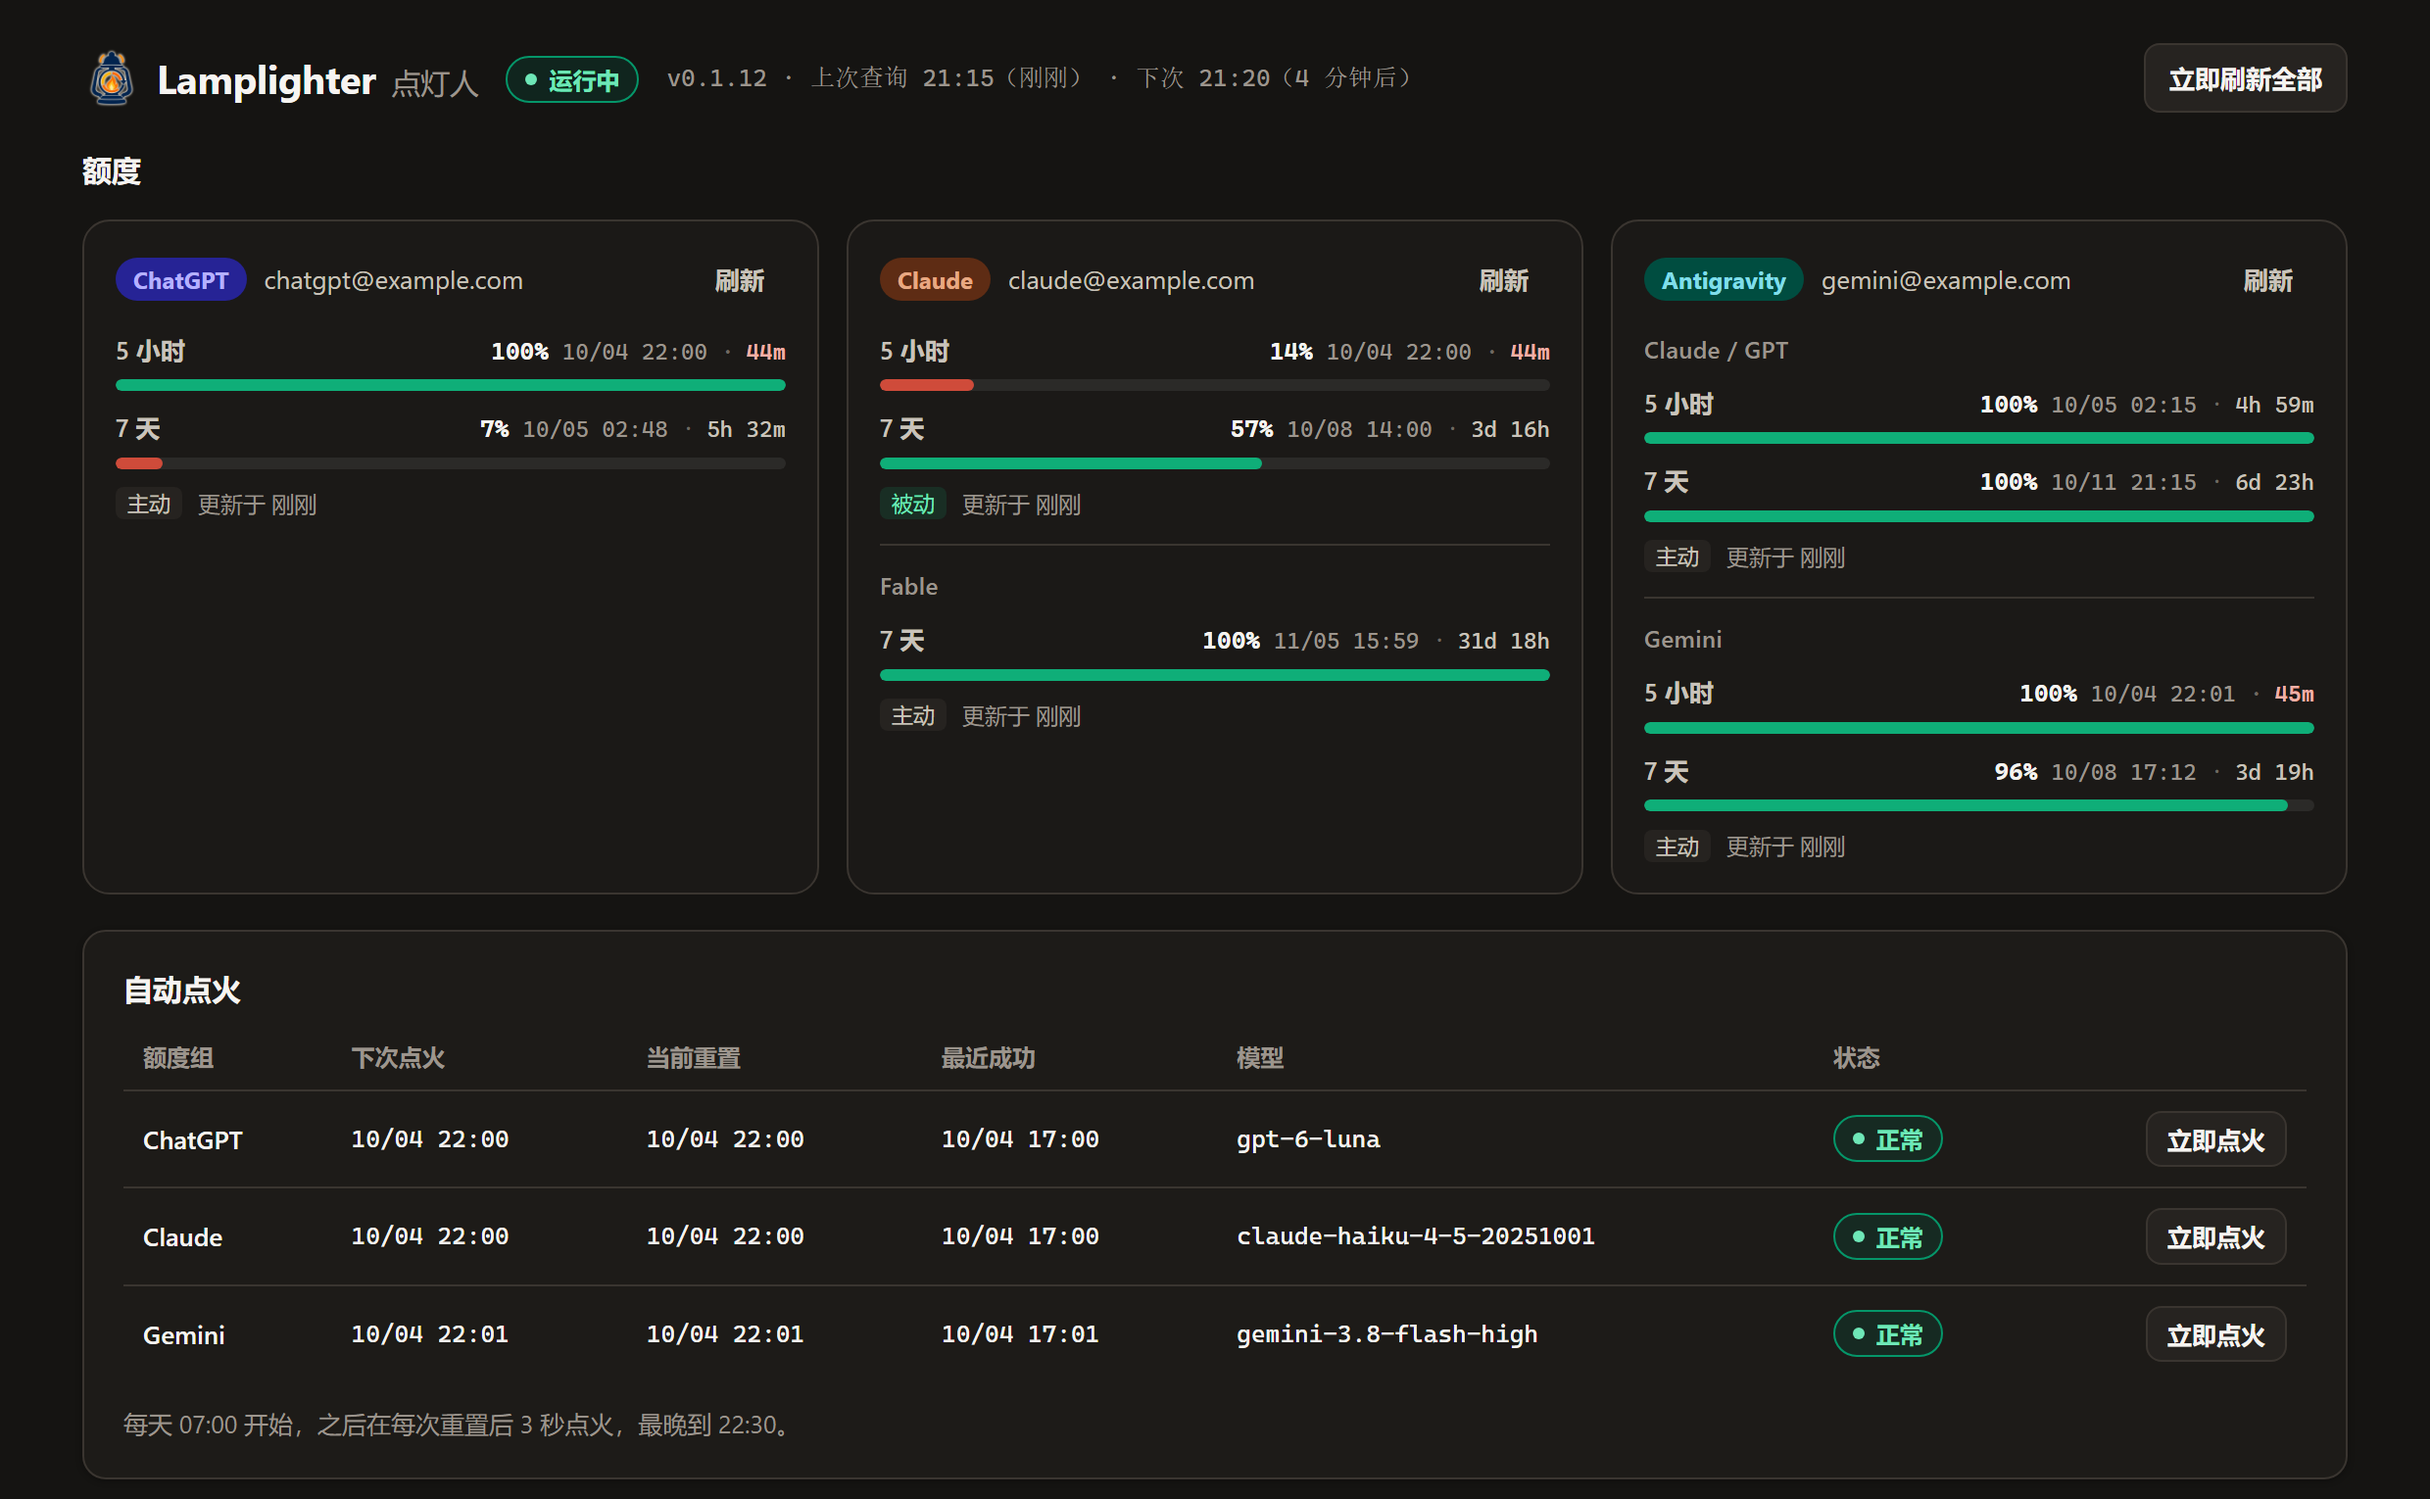
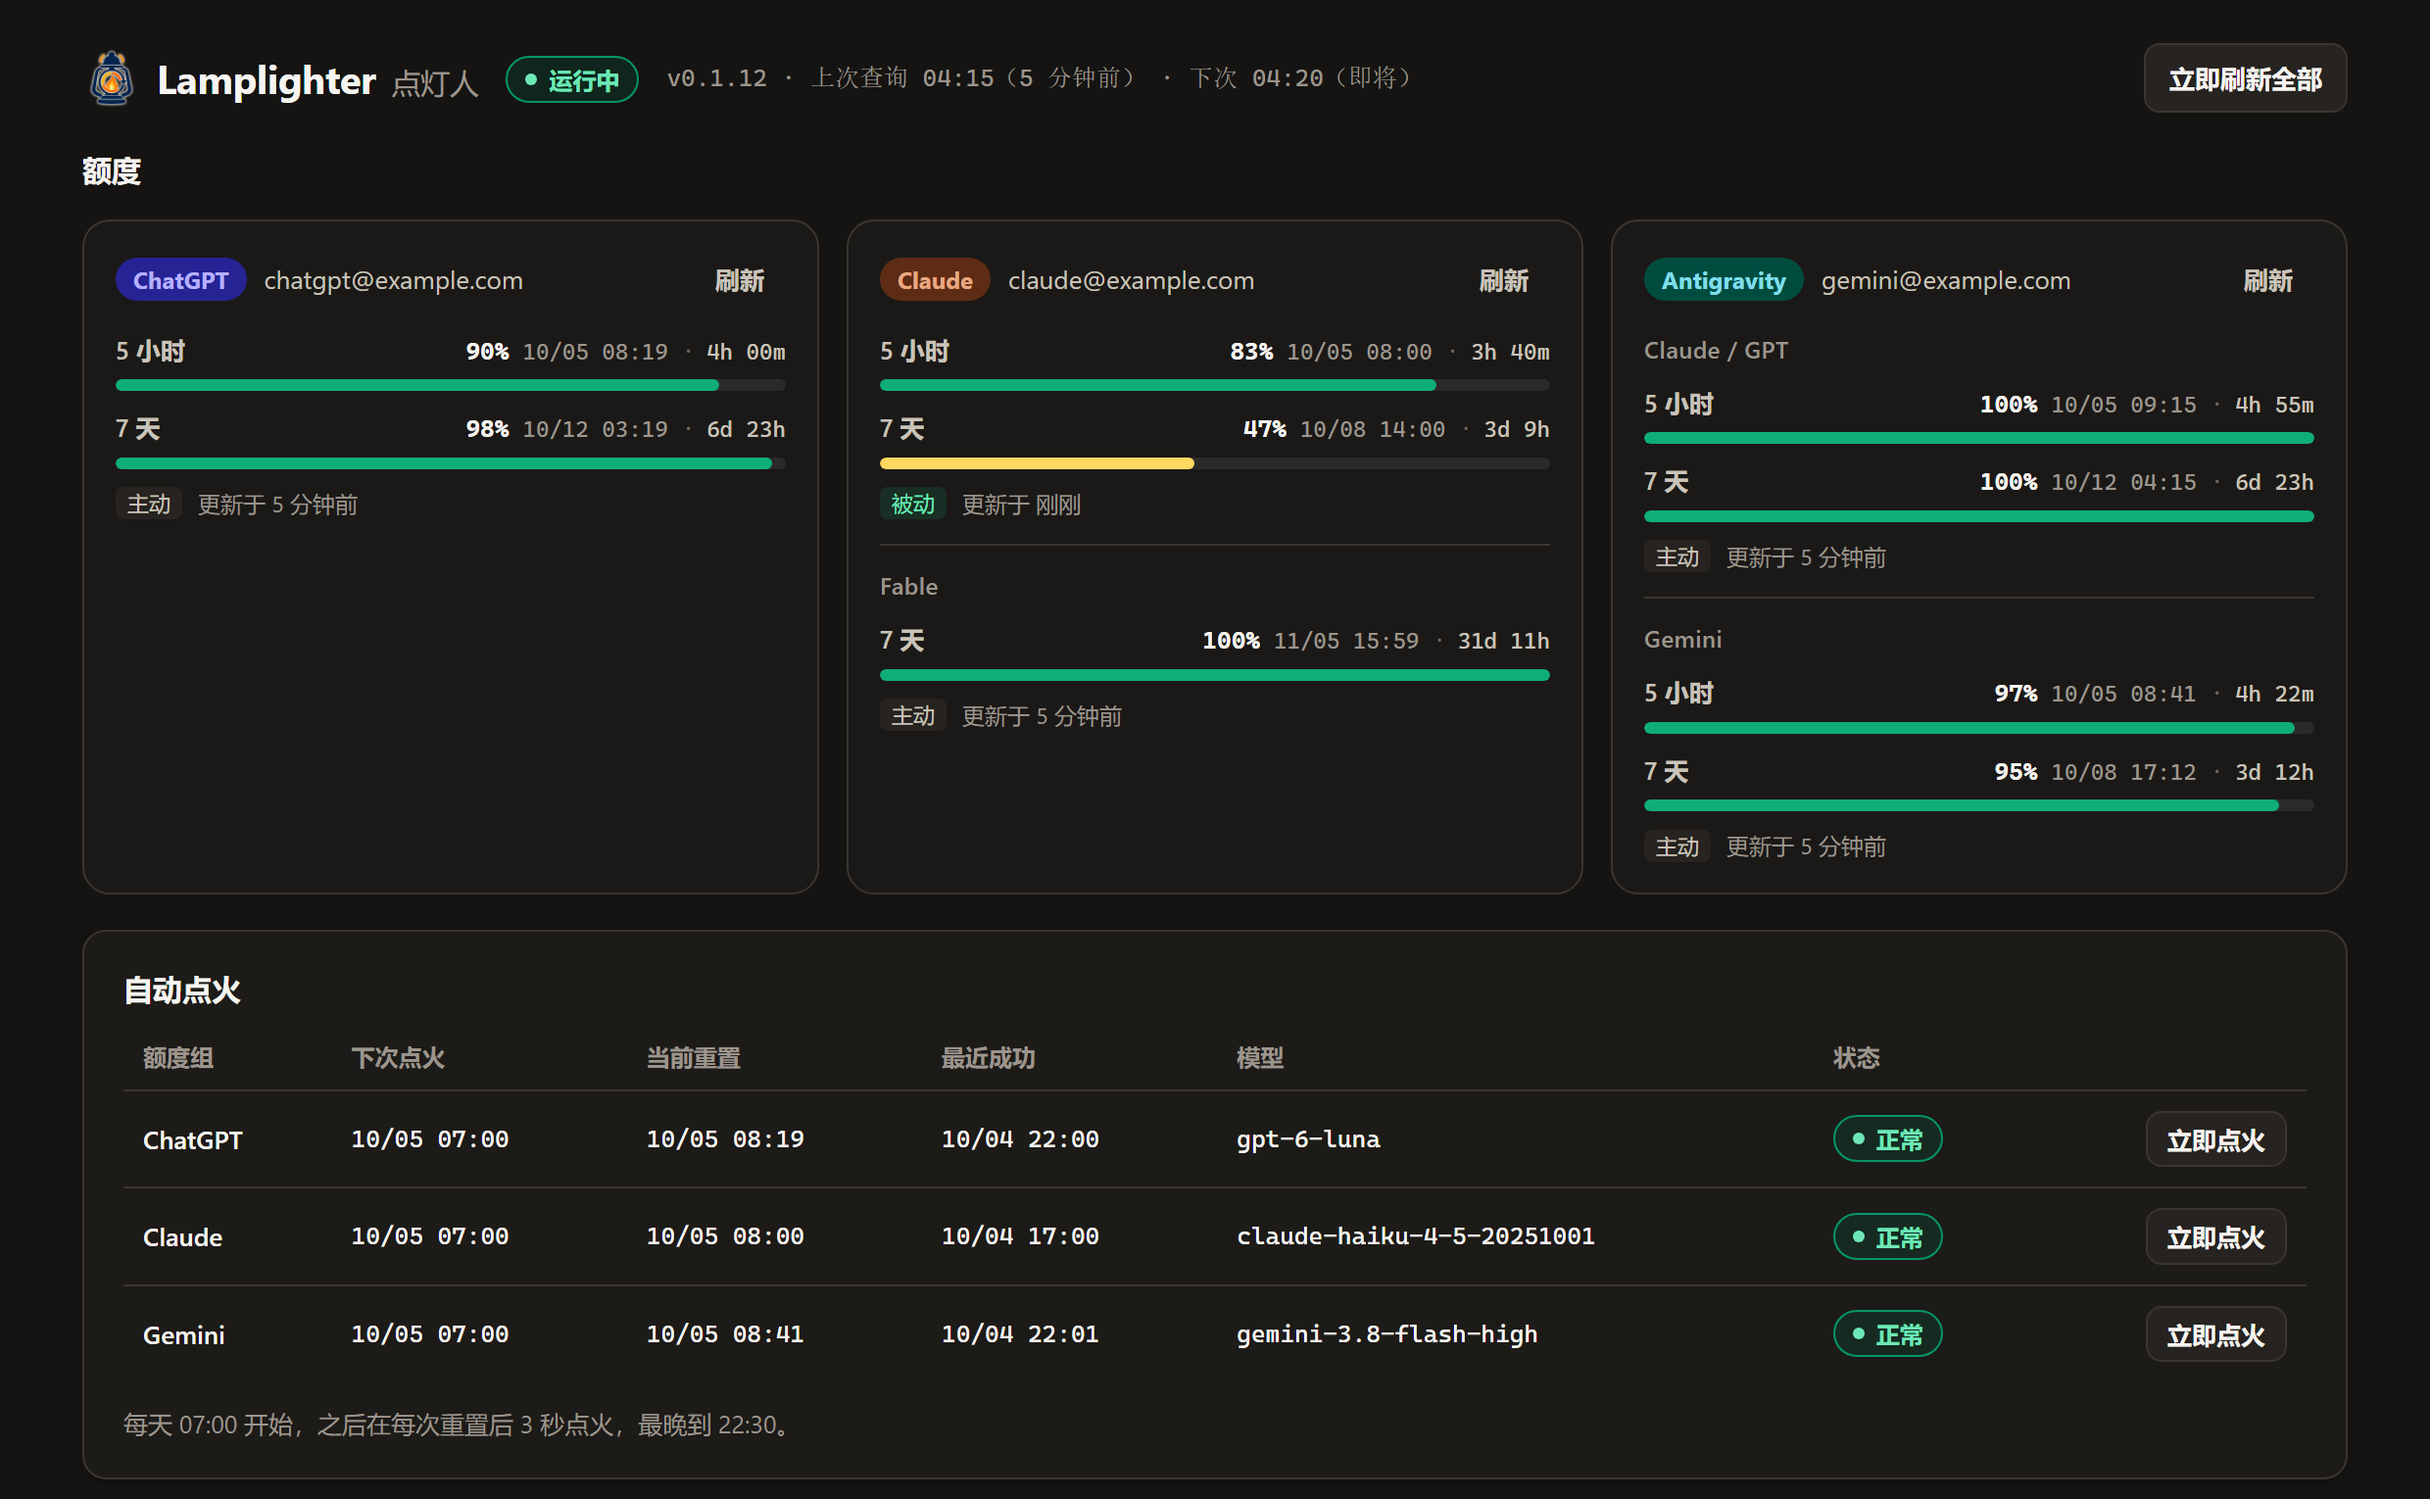
Show a 12-hour chart of real quota data in the README
The chart screenshot shows the 5-hour quota over 12 hours from the
production server, with two resets, a used-up window and both ignition
results; the overview is taken from the same data. Account emails are
replaced with example addresses.

diff --git a/README_EN.md b/README_EN.md
@@ -175,7 +175,7 @@ plugins:
 
 ## Management page
 
-![Quota chart: Claude with two accounts expanded into one row each, and below it the total line with the range between accounts](./docs/images/chart.png)
+![Quota chart: the 5-hour quota over the last 12 hours, with the Claude curve below it marking resets and ignition results](./docs/images/chart.png)
 
 The page shows:
 

diff --git a/README.md b/README.md
@@ -175,7 +175,7 @@ plugins:
 
 ## 管理页面
 
-![额度变化图表：多账号的 Claude 展开为各账号，下方为合计曲线和账号间的范围](./docs/images/chart.png)
+![额度变化图表：最近 12 小时的 5 小时额度，下方为 Claude 的额度曲线，标出重置和点火结果](./docs/images/chart.png)
 
 页面包含：
 
